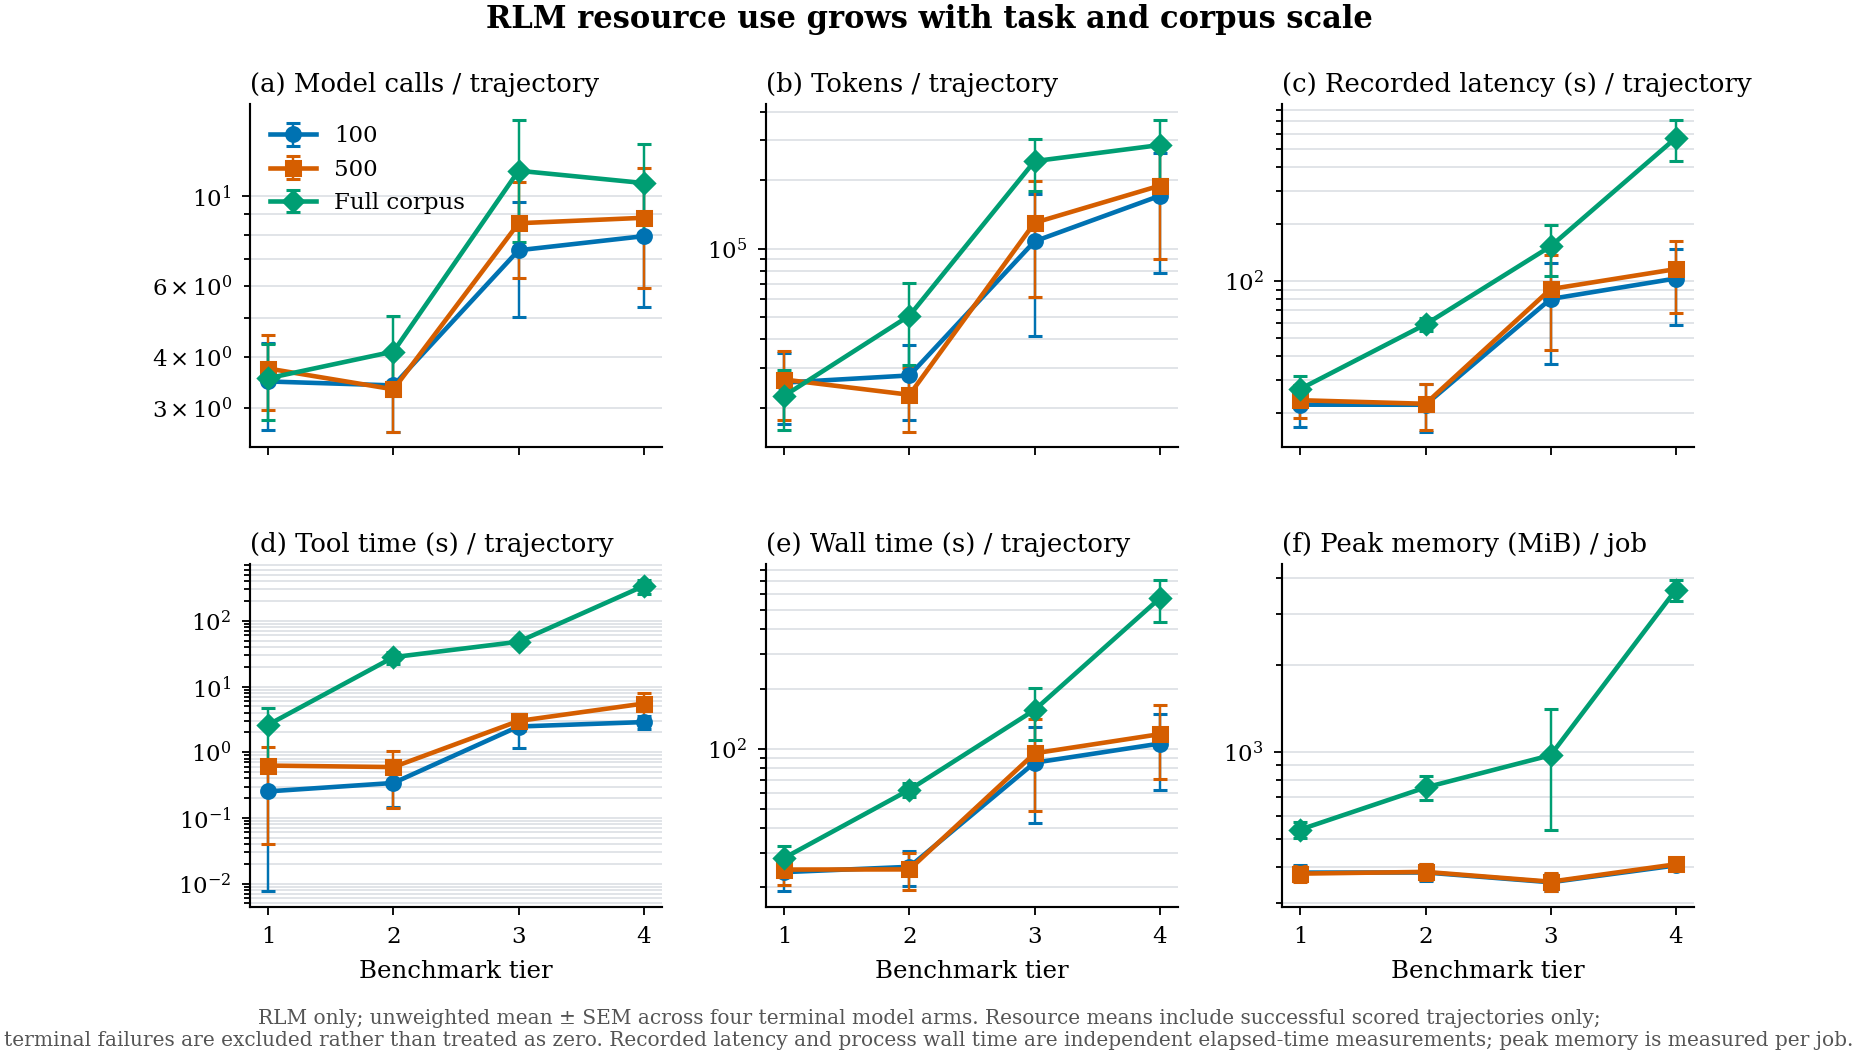
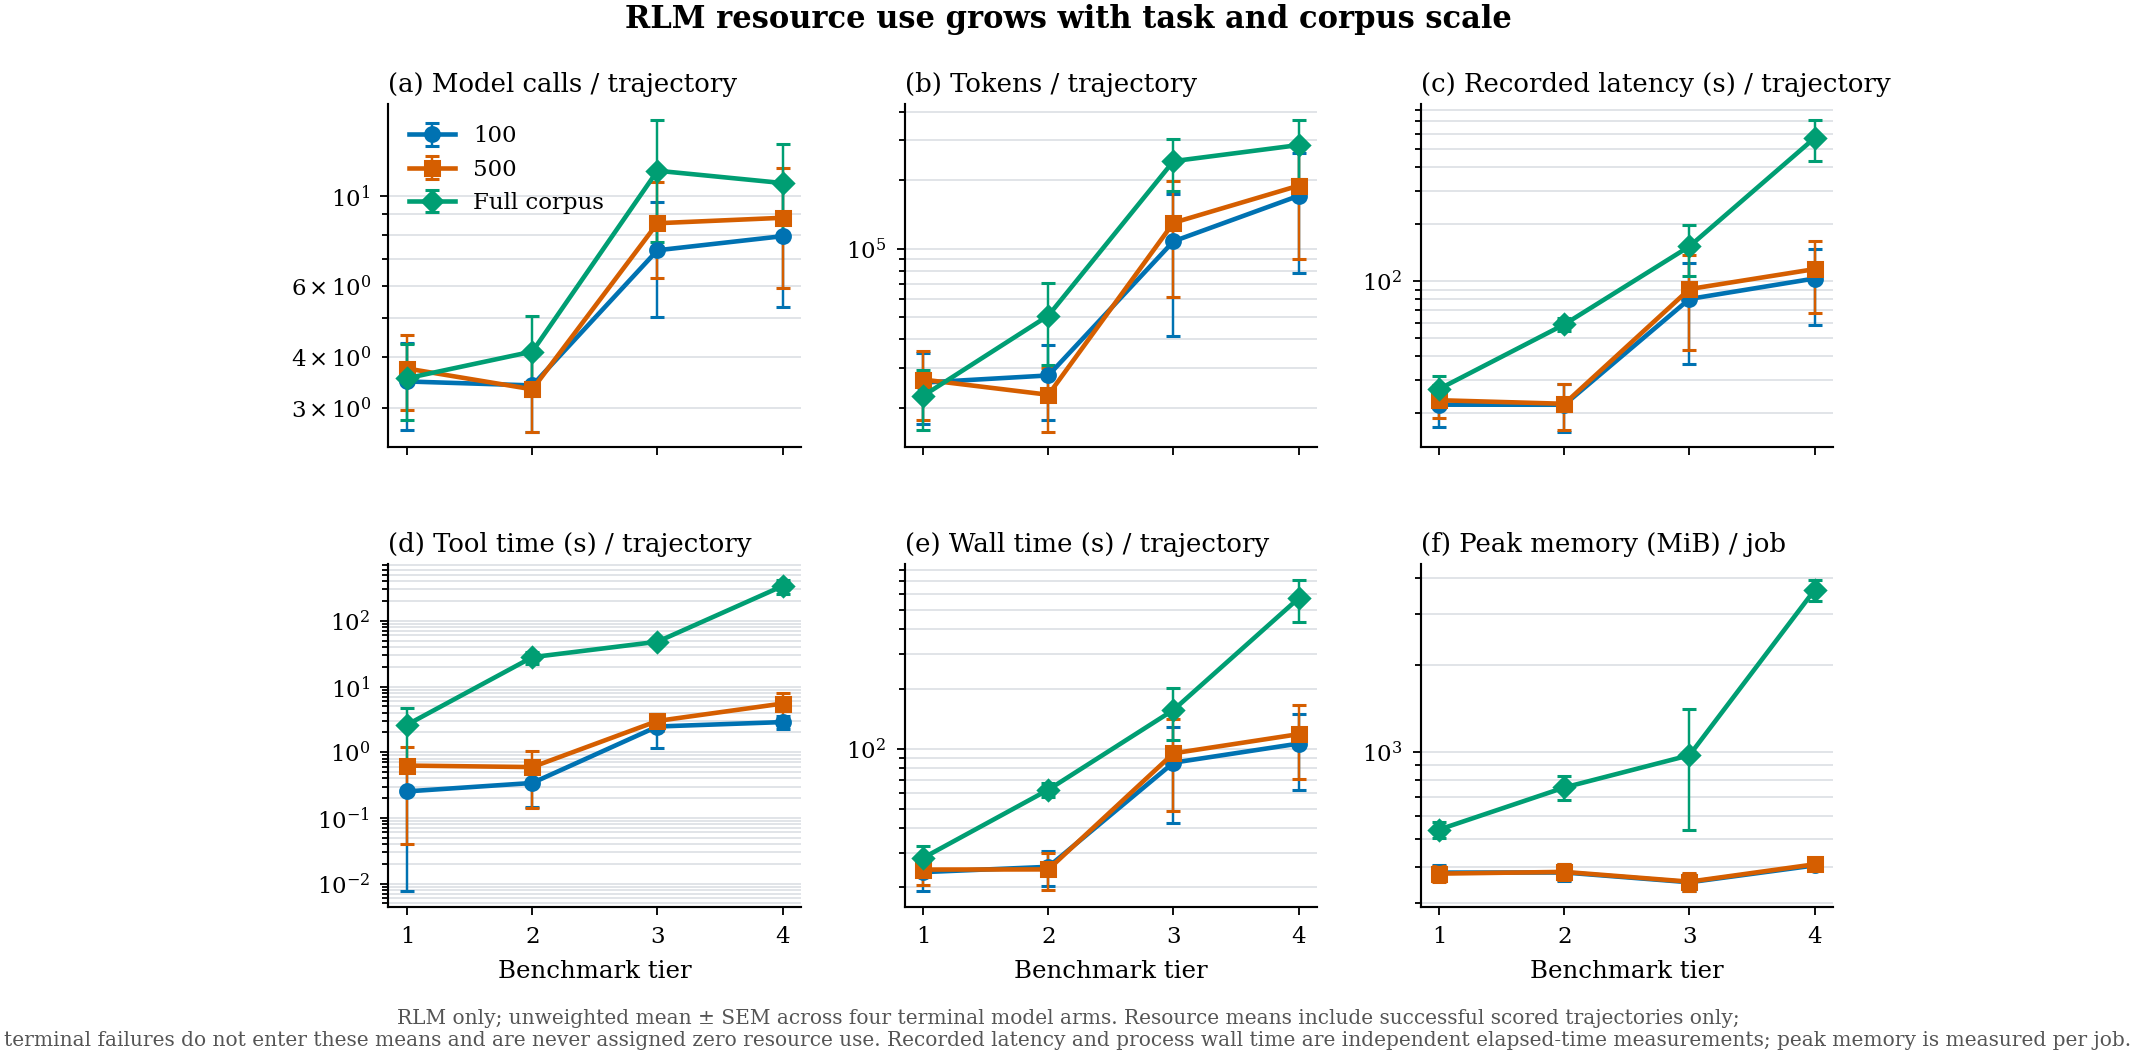
Polish paper efficiency wording

diff --git a/paper_plots/scripts/plot_efficiency_appendix.py b/paper_plots/scripts/plot_efficiency_appendix.py
@@ -95,8 +95,8 @@ def make_figure(rows: list[dict[str, str]]) -> plt.Figure:
         0.5,
         0.005,
         "RLM only; unweighted mean ± SEM across four terminal model arms. Resource means "
-        "include successful scored trajectories only;\nterminal failures are excluded rather "
-        "than treated as zero. Recorded latency and process wall time are independent "
+        "include successful scored trajectories only;\nterminal failures do not enter these "
+        "means and are never assigned zero resource use. Recorded latency and process wall time are independent "
         "elapsed-time measurements; peak memory is measured per job.",
         ha="center",
         va="bottom",

diff --git a/paper_plots/gold/iclr2027/README.md b/paper_plots/gold/iclr2027/README.md
@@ -36,7 +36,7 @@ All plotting aggregates score terminal failed jobs as zero. Running, stale, and 
   process wall time, and peak-memory summaries for terminal arms. Additive
   metrics are normalized per successful question trajectory; peak memory is
   averaged per successful job. Terminal failures are counted but excluded from
-  resource means rather than treated as zero.
+  resource means and are never treated as zero.
 - `source_manifest.json`: source snapshot and file checksums.
 
 ## Causal controls
